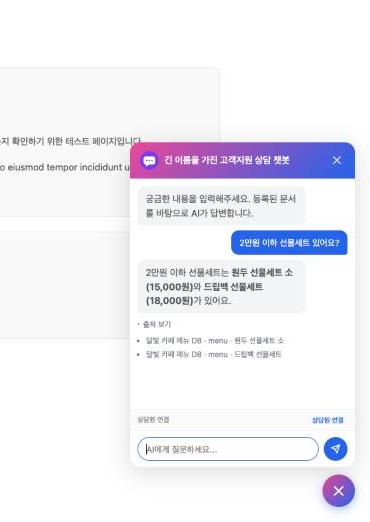
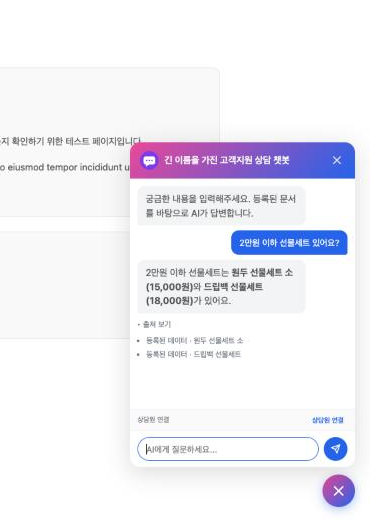
fix(DB 지식 D): 리뷰 반영 — 임베딩 캐시·출처는 행 제목만·단위 정리·날짜 필드·복합 금액 범위·타입 없는 숫자

Changed region(s): [[0.3865, 0.6437, 0.773, 0.705]]

diff --git a/lib/db-sources/search.ts b/lib/db-sources/search.ts
@@ -4,38 +4,58 @@ import { parseNumericIntent, passesNumericIntent, type NumericField } from "./nu
 
 export const DOC_THRESHOLD = 0.25;
 export const DOC_TOP_K = 5;
-export type DocSource = { kind: "db"; label: string; connection: string; table: string; title: string };
+/** 방문자에게 보이는 출처. 행 제목만 담는다 — 연결 이름·테이블 이름·원본 값·접속 정보는 내보내지 않는다. */
+export type DocSource = { kind: "db"; label: string };
 export type FoundDoc = { id: string; title: string; content: string; score: number; source: DocSource | null };
 type Db = typeof sql;
+type Indexed = { id: string; title: string; vector: number[]; numeric: NumericField[] | null };
+
+/**
+ * 봇별 임베딩 캐시. 매 질문마다 모든 문서의 임베딩 JSON을 다시 파싱하지 않도록 짧게(60초) 들고 있는다.
+ * 문서 수·최신 생성 시각·보관 수가 바뀌면 즉시 다시 읽는다(수정은 최대 60초 늦게 반영).
+ */
+const CACHE_TTL_MS = 60_000,
+  CACHE_BOTS = 30;
+const cache = new Map<string, { at: number; stamp: string; docs: Indexed[] }>();
+async function indexFor(botId: string, db: Db): Promise<Indexed[]> {
+  const [meta] = await db`SELECT count(*)::int AS n, COALESCE(max(created_at),0)::bigint AS m, count(*) FILTER (WHERE archived_at IS NOT NULL)::int AS a FROM documents WHERE bot_id=${botId}`;
+  const stamp = `${meta?.n}:${meta?.m}:${meta?.a}`;
+  const hit = db === sql ? cache.get(botId) : undefined;
+  if (hit && hit.stamp === stamp && Date.now() - hit.at < CACHE_TTL_MS) return hit.docs;
+  const rows = await db`SELECT id, title, embedding, numeric_fields FROM documents WHERE bot_id=${botId} AND embedding IS NOT NULL AND archived_at IS NULL`;
+  const docs = rows.map((r) => ({ id: String(r.id), title: String(r.title), vector: JSON.parse(String(r.embedding)) as number[], numeric: (r.numeric_fields as NumericField[] | null) ?? null }));
+  if (db === sql) {
+    cache.delete(botId);
+    cache.set(botId, { at: Date.now(), stamp, docs });
+    while (cache.size > CACHE_BOTS) cache.delete(cache.keys().next().value as string);
+  }
+  return docs;
+}
+
+/** 채팅 응답에 싣는 출처 목록(DB에서 온 문서만, 중복 제거). */
+export function sourcesOf(docs: FoundDoc[]): DocSource[] {
+  const seen = new Set<string>();
+  return docs.flatMap((d) => (d.source && !seen.has(d.source.label) && seen.add(d.source.label) ? [d.source] : []));
+}
 
 /**
  * 챗봇 답변용 문서 검색. 보관 문서는 빼고, 질문에 숫자 조건("2만원 이하")이 있으면 숫자 필드로 먼저 거른 뒤 임베딩 순위를 매긴다.
- * DB에서 온 문서는 출처(연결 이름·테이블·행 제목)를 함께 돌려준다. 접속 정보·원본 값은 담지 않는다.
  */
 export async function searchDocuments(botId: string, queryEmbedding: number[], message: string, db: Db = sql): Promise<FoundDoc[]> {
   const intents = parseNumericIntent(message);
-  const rows = await db`SELECT id, title, embedding, numeric_fields FROM documents WHERE bot_id=${botId} AND embedding IS NOT NULL AND archived_at IS NULL`;
-  const scored = rows
-    .filter((r) => passesNumericIntent(r.numeric_fields as NumericField[] | null, intents))
-    .map((r) => ({ id: String(r.id), title: String(r.title), score: cosineSimilarity(queryEmbedding, JSON.parse(String(r.embedding))) }))
+  const docs = await indexFor(botId, db);
+  const scored = docs
+    .filter((d) => passesNumericIntent(d.numeric, intents))
+    .map((d) => ({ id: d.id, title: d.title, score: cosineSimilarity(queryEmbedding, d.vector) }))
     .filter((r) => r.score >= DOC_THRESHOLD)
     .sort((a, b) => b.score - a.score)
     .slice(0, DOC_TOP_K);
   if (!scored.length) return [];
   const ids = scored.map((r) => r.id);
-  const content = await db`SELECT d.id, d.content, c.name AS connection, s.schema_name, s.table_name
-    FROM documents d
-    LEFT JOIN db_source_rows r ON r.document_id=d.id
-    LEFT JOIN db_sources s ON s.id=r.source_id
-    LEFT JOIN data_connections c ON c.id=s.connection_id
-    WHERE d.id = ANY(${ids}::text[])`;
+  const content = await db`SELECT d.id, d.content, d.source_kind FROM documents d WHERE d.id = ANY(${ids}::text[])`;
   const byId = new Map(content.map((r) => [String(r.id), r]));
   return scored.map((r) => {
     const row = byId.get(r.id);
-    const table = row?.table_name ? (row.schema_name === "public" ? String(row.table_name) : `${row.schema_name}.${row.table_name}`) : null;
-    const source: DocSource | null = table
-      ? { kind: "db", connection: String(row?.connection ?? ""), table, title: r.title, label: [row?.connection, table, r.title].filter(Boolean).join(" · ") }
-      : null;
-    return { ...r, content: String(row?.content ?? ""), source };
+    return { ...r, content: String(row?.content ?? ""), source: row?.source_kind === "db" ? { kind: "db" as const, label: r.title } : null };
   });
 }

diff --git a/lib/db-sources/render.ts b/lib/db-sources/render.ts
@@ -1,6 +1,7 @@
 import { createHash } from "node:crypto";
 import type { ColumnInfo } from "@/lib/data-connections/types";
 import type { BodyColumn, ColumnDraft, ColumnRole, Draft } from "./types";
+import { normalizeUnit } from "./numeric";
 
 /** 이름·전화·이메일·주소·주민번호·카드 등. 이름(name)은 사람 표로 보일 때만 개인정보로 본다. */
 const PERSONAL = /(phone|tel|mobile|cell|email|e_mail|mail|address|addr|zip|postal|ssn|resident|jumin|passport|card_no|card_number|account_no|birth|password|passwd|pwd|token|secret|ip_addr|전화|휴대|이메일|주소|주민|계좌|카드|생년|비밀번호)/i;
@@ -171,17 +172,27 @@ export function renderRowDocument(
 export const rowHash = (title: string, content: string) => createHash("sha256").update(title + "\u0000" + content).digest("hex");
 export const rowKeyOf = (value: unknown) => (value === null || value === undefined ? "" : String(value));
 
-/** 숫자 타입 본문 컬럼 → 하이브리드 검색용 숫자 필드. 단위가 같은 질문 조건("2만원 이하")과 비교한다. */
+/**
+ * 숫자·날짜 타입 본문 컬럼 → 하이브리드 검색용 필드. 숫자는 단위를 정리해 저장하고(질문 조건과 같은 단위끼리 비교),
+ * 날짜는 unit "date"·초 단위 값으로 저장한다. 타입을 모르면 앞자리 0이 없는 숫자 모양 값만 숫자로 본다.
+ */
 export function numericFieldsOf(row: Record<string, unknown>, bodyColumns: BodyColumn[]): { column: string; label: string; unit: string; value: number }[] {
   const out: { column: string; label: string; unit: string; value: number }[] = [];
   for (const col of bodyColumns) {
     const raw = row[col.column];
     if (raw === null || raw === undefined || raw === "") continue;
-    const numericType = col.type ? isNumber(col.type) : typeof raw === "number";
+    const label = col.label || col.column;
+    if (col.type && /date|time/i.test(col.type) && !/interval/i.test(col.type)) {
+      const t = new Date(String(raw)).getTime();
+      if (Number.isFinite(t)) out.push({ column: col.column, label, unit: "date", value: Math.floor(t / 1000) });
+      continue;
+    }
+    const text = String(raw).replace(/,/g, "").trim();
+    const numericType = col.type ? isNumber(col.type) : typeof raw === "number" || /^-?(?:[1-9]\d*|0)(?:\.\d+)?$/.test(text);
     if (!numericType) continue;
-    const value = Number(String(raw).replace(/,/g, ""));
+    const value = Number(text);
     if (!Number.isFinite(value)) continue;
-    out.push({ column: col.column, label: col.label || col.column, unit: col.unit ?? "", value });
+    out.push({ column: col.column, label, unit: normalizeUnit(col.unit), value });
   }
   return out;
 }

diff --git a/lib/db-sources/numeric.ts b/lib/db-sources/numeric.ts
@@ -5,6 +5,16 @@
 export type NumericField = { column: string; label: string; unit: string; value: number };
 export type NumericIntent = { op: "lte" | "gte" | "lt" | "gt"; value: number; unit: string };
 
+/** 단위 표기 정리: ₩·KRW·"원(부가세 포함)" → 원, EA·pcs → 개. 저장할 때와 질문을 읽을 때 같은 규칙을 쓴다. */
+export function normalizeUnit(unit: string | null | undefined): string {
+  const u = String(unit ?? "").trim().toLowerCase();
+  if (!u) return "";
+  if (/원|₩|krw|won/.test(u)) return "원";
+  if (/^(개|ea|pcs|pc|piece|pieces)$/.test(u)) return "개";
+  if (/^(명|인)$/.test(u)) return "명";
+  return u;
+}
+
 const UNIT_ALIASES: Record<string, string> = { 원: "원", 개: "개", 명: "명", 인: "명", 분: "분", 시간: "시간", 일: "일", g: "g", kg: "kg", ml: "ml" };
 const UNIT_RE = "(원|개|명|인|분|시간|일|kg|g|ml)";
 
@@ -46,7 +56,9 @@ export function parseNumericIntent(text: string): NumericIntent[] {
     const word = (m[4] ?? "").replace(/\s/g, "");
     if (m[3] === "대") {
       // "2만원대" → 2만 이상 3만 미만(자릿수 기준)
-      const step = Math.pow(10, Math.max(0, Math.floor(Math.log10(value || 1))));
+      // 끝자리 0의 개수로 범위를 정한다: 2만원대 → 2만~3만, 1만5천원대 → 1만5천~1만6천
+      let step = 1;
+      while (value > 0 && value % (step * 10) === 0) step *= 10;
       out.push({ op: "gte", value, unit }, { op: "lt", value: value + step, unit });
     } else if (/^(이하|까지|안넘는|넘지않는|아래)$/.test(word)) out.push({ op: "lte", value, unit });
     else if (/^(이상|부터)$/.test(word)) out.push({ op: "gte", value, unit });
@@ -60,7 +72,7 @@ export function parseNumericIntent(text: string): NumericIntent[] {
 export function passesNumericIntent(fields: NumericField[] | null | undefined, intents: NumericIntent[]): boolean {
   if (!intents.length || !fields?.length) return true;
   for (const intent of intents) {
-    const candidates = fields.filter((f) => f.unit === intent.unit);
+    const candidates = fields.filter((f) => normalizeUnit(f.unit) === intent.unit);
     if (!candidates.length) continue;
     const ok = candidates.some((f) =>
       intent.op === "lte" ? f.value <= intent.value : intent.op === "gte" ? f.value >= intent.value : intent.op === "lt" ? f.value < intent.value : f.value > intent.value,

diff --git a/tests/db-knowledge.integration.ts b/tests/db-knowledge.integration.ts
@@ -274,7 +274,7 @@ async function main() {
         assert.ok(price === undefined || price <= 20000, `${d.title} ${price}`);
       }
       assert.ok(!found.some((d) => d.title === "원두 선물세트 중" || d.title === "프리미엄 선물세트"), "2만원 넘는 세트는 후보 제외");
-      assert.ok(found.every((d) => d.source && d.source.table === "menu" && d.source.label.endsWith(d.title)));
+      assert.ok(found.every((d) => d.source && d.source.kind === "db" && d.source.label === d.title), "출처는 행 제목만");
       assert.ok(found.every((d) => !JSON.stringify(d.source).includes(fixture.password) && !JSON.stringify(d.source).includes(fixture.host)));
       const plain = await searchDocuments(bot, fakeEmbedding("프리미엄 선물세트"), "프리미엄 선물세트", tx as never);
       assert.ok(plain.some((d) => d.title === "프리미엄 선물세트"), "숫자 조건이 없으면 거르지 않음");
@@ -282,7 +282,7 @@ async function main() {
       const afterArchive = await searchDocuments(bot, fakeEmbedding("프리미엄 선물세트"), "프리미엄 선물세트", tx as never);
       assert.ok(!afterArchive.some((d) => d.title === "프리미엄 선물세트"), "보관 문서는 후보 제외");
       await tx`UPDATE documents SET archived_at=NULL WHERE bot_id=${bot} AND title='프리미엄 선물세트'`;
-      pass("D-D2 숫자 조건은 필드로 먼저 거르고(2만원 넘는 세트 제외), 출처는 연결·테이블·행 제목만, 보관 문서 제외");
+      pass("D-D2 숫자 조건은 필드로 먼저 거르고(2만원 넘는 세트 제외), 출처는 행 제목만(내부 이름 비공개), 보관 문서 제외");
 
       // B-D3 상한: menu_big 5,200행을 row_limit 50으로 → 50행 반영 + 5,150행 초과
       const big = await createDbSource(db, actor, { id: bot, customer_id: customer }, {

diff --git a/app/api/chat/[botId]/route.ts b/app/api/chat/[botId]/route.ts
@@ -1,6 +1,6 @@
 import { withWidgetCors } from "@/lib/widget-origin";
 import { NextResponse } from "next/server";
-import { searchDocuments, type FoundDoc } from "@/lib/db-sources/search";
+import { searchDocuments, sourcesOf, type FoundDoc } from "@/lib/db-sources/search";
 import sql from "@/lib/neon";
 import { Bot, QaPair, initSchema } from "@/lib/db";
 import { findBestMatch, getEmbedding } from "@/lib/embeddings";
@@ -280,8 +280,8 @@ async function POSTHandler(
     // 숫자 조건 필터 → 임베딩 순위, 보관 문서 제외, DB 문서는 출처 포함
     relevantDocs = await searchDocuments(botId, queryEmbedding, message);
   }
-  // 위젯 "출처 보기"용. DB에서 온 문서만, 연결 이름·테이블·행 제목만 담는다.
-  const sources = relevantDocs.flatMap((d) => (d.source ? [{ kind: d.source.kind, label: d.source.label }] : []));
+  // 위젯 "출처 보기"용. DB에서 온 문서의 행 제목만 담는다.
+  const sources = sourcesOf(relevantDocs);
 
   if (ragAiMode && relevantDocs.length === 0 && !proactive?.knowledge.length) {
     const reply = "등록된 문서에서 해당 질문에 대한 내용을 찾을 수 없습니다. 다른 표현으로 질문하거나 Q&A 목록을 이용해주세요.";

diff --git a/public/chatbot-widget.js b/public/chatbot-widget.js
@@ -708,7 +708,7 @@
       return el;
     }
 
-    /** 답변 근거가 된 DB 행(연결 이름 · 테이블 · 행 제목). 원본 값은 담지 않는다. */
+    /** 답변 근거가 된 등록 데이터(행 제목). 원본 값·내부 이름은 담지 않는다. */
     function addSources(sources) {
       if (!Array.isArray(sources) || !sources.length) return;
       const box = document.createElement("details");
@@ -719,7 +719,7 @@
       const list = document.createElement("ul");
       [...new Set(sources.map((s) => String(s && s.label || "")).filter(Boolean))].slice(0, 5).forEach((label) => {
         const li = document.createElement("li");
-        li.textContent = label;
+        li.textContent = "등록된 데이터 · " + label;
         list.appendChild(li);
       });
       box.appendChild(list);
